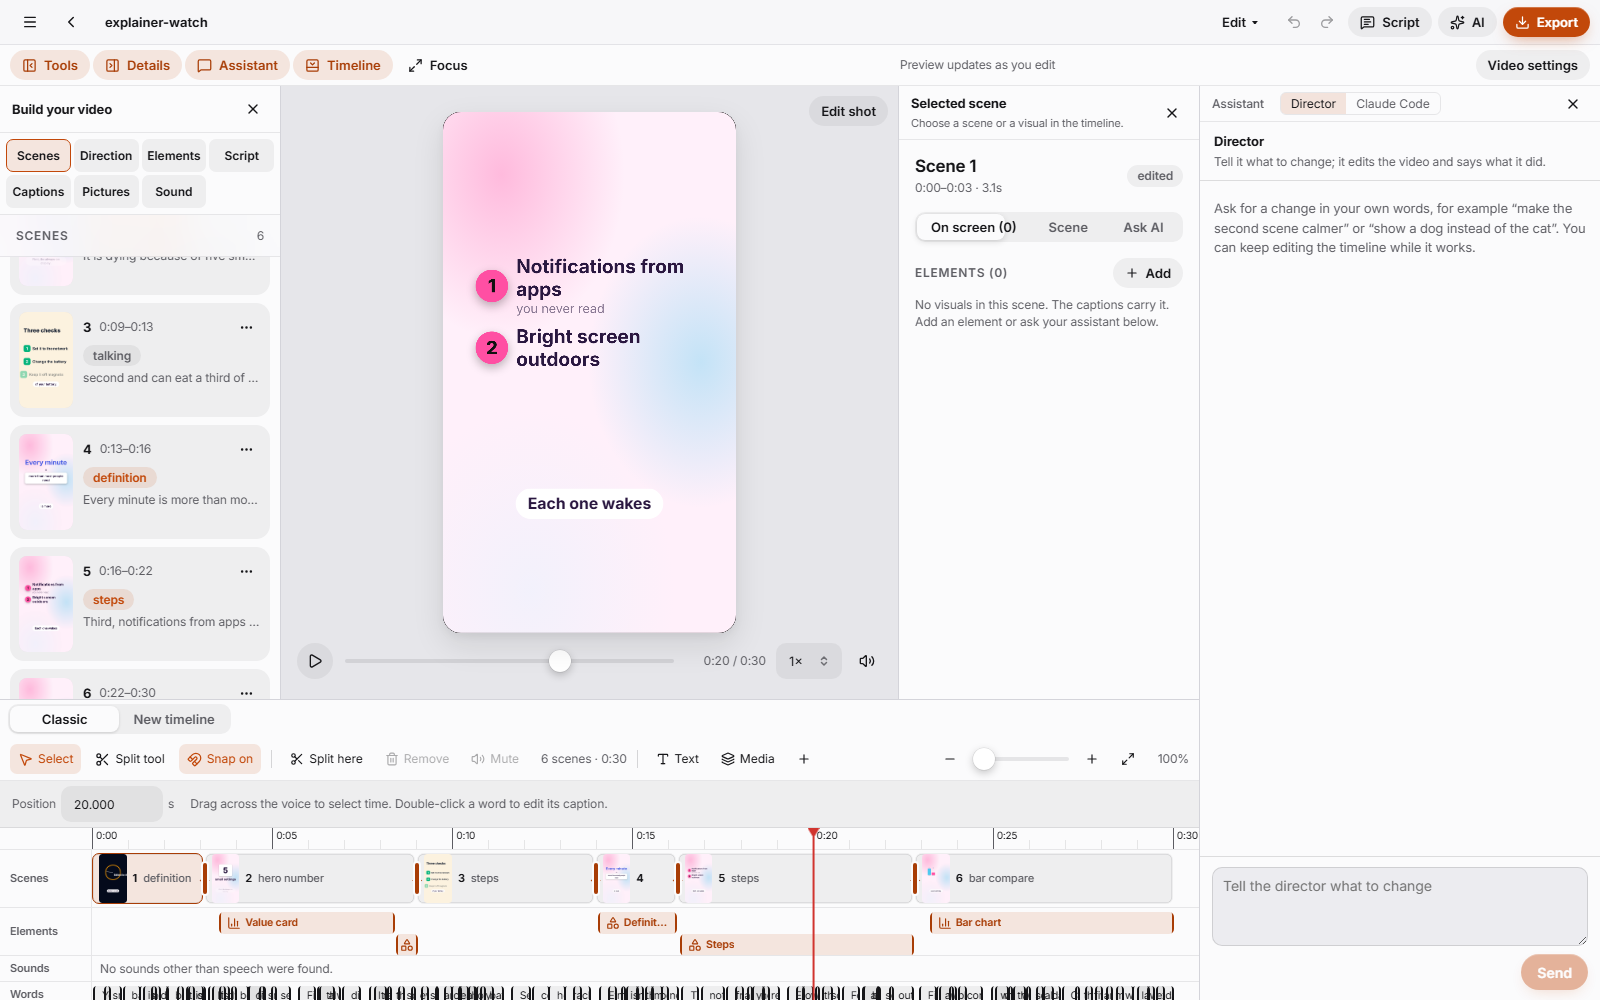
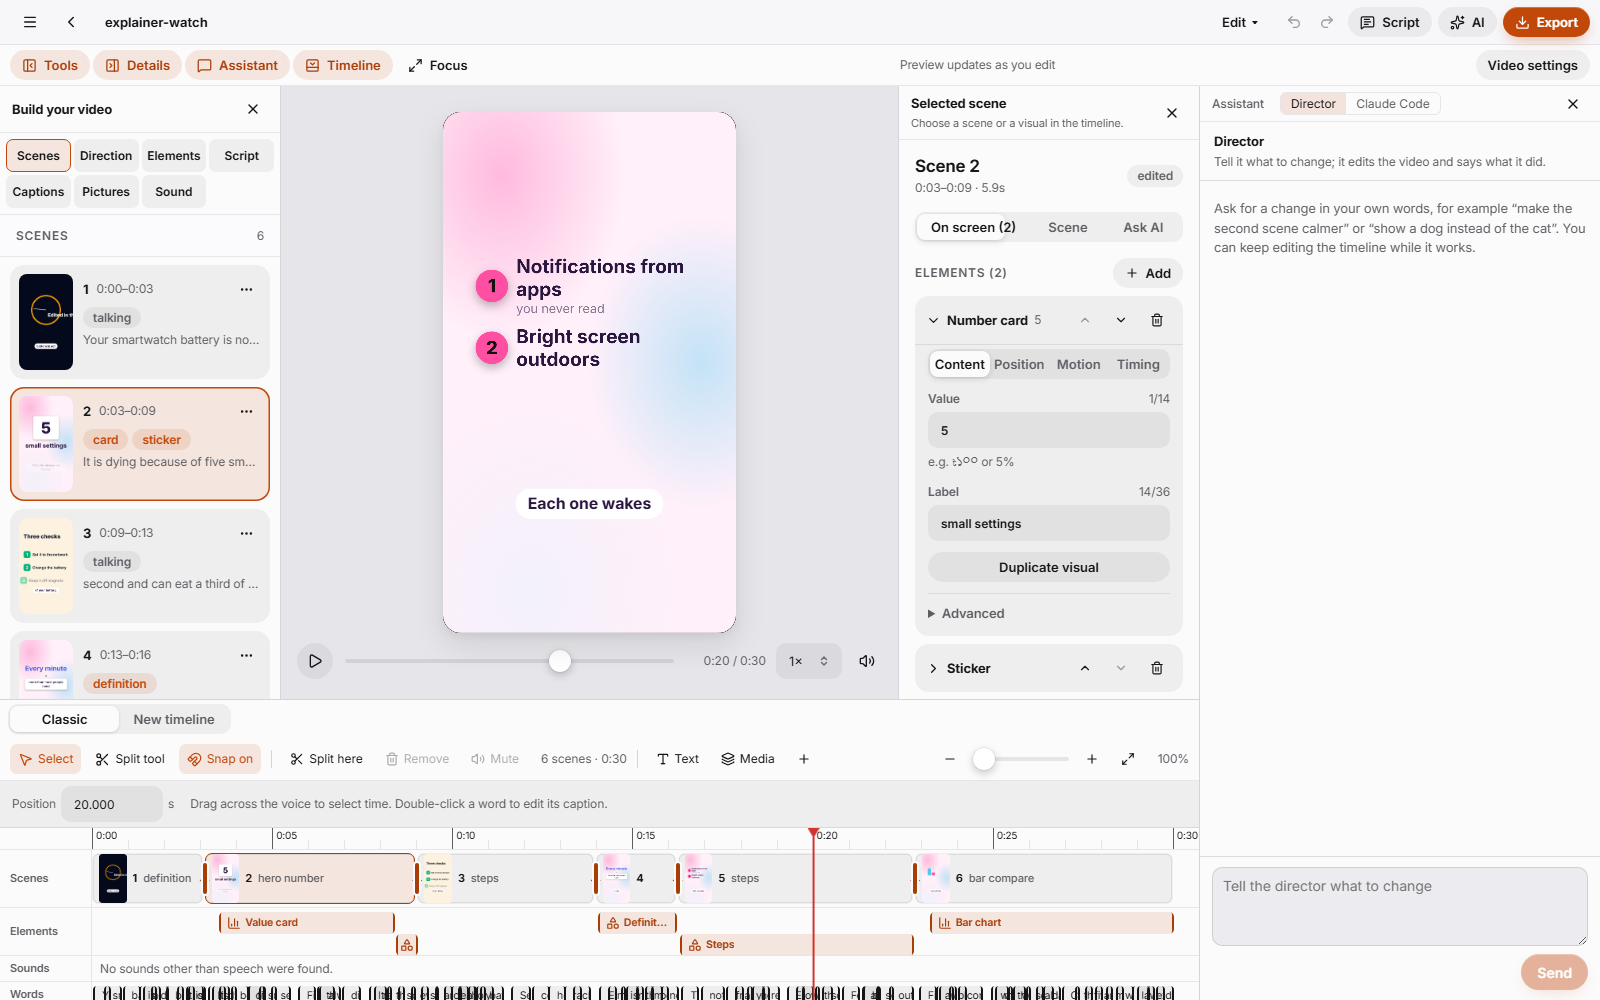
W13: Ctrl+L points Claude Code at the selected scene or element; references carry times and vt:// links

diff --git a/client/studio/src/assistant/AgentChat.tsx b/client/studio/src/assistant/AgentChat.tsx
@@ -24,7 +24,8 @@ export type AgentEvent =
   | { type: "error"; kind: "limit" | "login" | "other"; message: string };
 
 interface Step { id: string; title: string; status: string }
-interface Turn { role: "me" | "agent"; text: string; steps: Step[] }
+export interface AgentRef { kind: string; scene?: string; index?: number; t?: number; from?: number; to?: number; label?: string }
+interface Turn { role: "me" | "agent"; text: string; steps: Step[]; refs?: AgentRef[] }
 interface Card { requestId: string; what: string; title: string; detail: string }
 
 export const agentBridge = (): AgentBridge | undefined => (window as any).vtDesktop?.agents;
@@ -49,6 +50,18 @@ export default function AgentChat({ projectId, title, onChanged, onLink }: { pro
   const [earlier, setEarlier] = useState<{ sessionId: string; title: string } | null>(null);
   const [note, setNote] = useState("");
   const [model, setModel] = useState("");
+  const [refs, setRefs] = useState<AgentRef[]>([]);                  // what the person pointed at (Ctrl+L), sent as numbered references
+  const box = useRef<HTMLTextAreaElement>(null);
+  useEffect(() => {
+    const on = (e: Event) => {
+      const r = (e as CustomEvent).detail as AgentRef;
+      if (!r || !r.kind) return;
+      setRefs((all) => (all.some((x) => JSON.stringify(x) === JSON.stringify(r)) ? all : [...all, r].slice(-8)));
+      setTimeout(() => box.current?.focus(), 30);
+    };
+    window.addEventListener("vt-ask-about", on);
+    return () => window.removeEventListener("vt-ask-about", on);
+  }, []);
   const conv = useRef<string>("");
   const end = useRef<HTMLDivElement>(null);
   const denyRef = useRef<HTMLButtonElement>(null);
@@ -91,11 +104,12 @@ export default function AgentChat({ projectId, title, onChanged, onLink }: { pro
   const send = async () => {
     const text = draft.trim();
     if (!text || running) return;
-    setProblem(null); setDraft(""); setRunning(true);
-    setTurns((all) => [...all, { role: "me", text, steps: [] }]);
+    const sent = refs;
+    setProblem(null); setDraft(""); setRunning(true); setRefs([]);
+    setTurns((all) => [...all, { role: "me", text, steps: [], refs: sent }]);
     try {
       const id = conv.current || await begin();
-      await bridge.send(id, text, [], []);
+      await bridge.send(id, text, sent, []);
     } catch (e: any) {
       setRunning(false);
       setProblem({ kind: "other", message: String(e?.message || e).replace(/^Error invoking remote method '[^']+': (Error: )?/, "") });
@@ -119,6 +133,7 @@ export default function AgentChat({ projectId, title, onChanged, onLink }: { pro
         {turns.map((t, i) => (
           <div key={i} className={`agent-turn ${t.role}`}>
             {t.steps.length > 0 && <ul className="agent-steps">{t.steps.map((s) => <li key={s.id} className={s.status}><span className="dot" aria-hidden />{s.title}</li>)}</ul>}
+            {t.refs && t.refs.length > 0 && <div className="agent-pills">{t.refs.map((r, j) => <span key={j} className="agent-pill">[{j + 1}] {r.label || r.kind}</span>)}</div>}
             {t.text && (t.role === "agent" ? <Reply text={t.text} onLink={onLink} /> : <p>{t.text}</p>)}
           </div>
         ))}
@@ -139,8 +154,10 @@ export default function AgentChat({ projectId, title, onChanged, onLink }: { pro
         )}
         <div ref={end} />
       </div>
+      {refs.length > 0 && <div className="agent-pills agent-pills-draft" aria-label="What you are pointing at">{refs.map((r, j) => (
+        <span key={j} className="agent-pill">[{j + 1}] {r.label || r.kind}<button type="button" aria-label={`Remove ${r.label || r.kind}`} onClick={() => setRefs((all) => all.filter((_, k) => k !== j))}>×</button></span>))}</div>}
       <form className="agent-composer" onSubmit={(e) => { e.preventDefault(); send(); }}>
-        <textarea value={draft} rows={2} placeholder={`Tell ${WHO} what to change`} aria-label={`Message to ${WHO}`} disabled={running && !!card}
+        <textarea ref={box} value={draft} rows={2} placeholder={`Tell ${WHO} what to change`} aria-label={`Message to ${WHO}`} disabled={running && !!card}
           onChange={(e) => setDraft(e.target.value)} onKeyDown={(e) => { if (e.key === "Enter" && !e.shiftKey) { e.preventDefault(); send(); } }} />
         {running
           ? <button type="button" className="btn sm" onClick={() => bridge.stop(conv.current)} aria-label="Stop"><Square size={14} /> Stop</button>

diff --git a/client/studio/src/pages/Review.tsx b/client/studio/src/pages/Review.tsx
@@ -91,6 +91,7 @@ function ReviewEditor() {
   const [sel, setSel] = useState<Sel | null>(null);
   const [selected, setSelected] = useState<string | null>(null);
   const [selEl, setSelEl] = useState<{ scene: string; index: number } | null>(null);
+  const askRef = useRef<() => Record<string, unknown> | null>(() => null);
   const [selAction,setSelAction]=useState<{scene:string;index:number}|null>(null);
   const [selectedWord,setSelectedWord]=useState<string|null>(null);
   const captionWord=r.words.find(w=>w.id===selectedWord);
@@ -221,6 +222,18 @@ function ReviewEditor() {
     if (!selected || !scenes.some((s) => s.id === selected)) setSelected(scenes[0].id);
   }, [scenes, selected]);
   const timeOf = useMemo(() => new Map(r.timing.scenes.map((s) => [s.id, s])), [r.timing.scenes]);
+  askRef.current = () => {                                   // what Ctrl+L points at: the selected element, else the selected scene
+    const sid = selEl?.scene ?? selected;
+    if (!sid) return null;
+    const t = timeOf.get(sid) as { start?: number; end?: number } | undefined;
+    const span = t && t.start != null && t.end != null ? { from: +t.start.toFixed(2), to: +t.end.toFixed(2) } : {};
+    const n = (r.plan?.scenes ?? []).findIndex((s) => s.id === sid) + 1;
+    if (selEl) {
+      const el = (r.plan?.scenes ?? []).find((s) => s.id === sid)?.elements?.[selEl.index] as { type?: string; text?: string } | undefined;
+      return { kind: "element", scene: sid, index: selEl.index, ...span, label: `${el?.text || ELEMENT_NAME[el?.type ?? ""] || el?.type || "element"} in scene ${n}`.slice(0, 120) };
+    }
+    return { kind: "scene", scene: sid, ...span, label: `Scene ${n}` };
+  };
   useEffect(() => {
     const cur = r.timing.scenes.find((s) => time >= s.start && time < s.end);
     if (playing && !selEl && !selLayer && !selAction && !videoSel && cur && cur.id !== selected) {
@@ -309,6 +322,11 @@ function ReviewEditor() {
       else if (act === "palette") setPalette(true);
       else if (act === "focus-assistant") {
         setShowAssistant(true);
+        const ref = askRef.current();                                  // W13.3: Ctrl+L with something selected points Claude Code at it
+        if (ref && (window as any).vtDesktop?.agents) {
+          setAssistantTab("claude");
+          setTimeout(() => window.dispatchEvent(new CustomEvent("vt-ask-about", { detail: ref })), 250);
+        }
         setTimeout(() => document.querySelector<HTMLTextAreaElement>(".wb-assistant textarea")?.focus(), 60);
       }
     };

diff --git a/client/desktop/acp-instructions.js b/client/desktop/acp-instructions.js
@@ -15,10 +15,14 @@ function instructions({ title, projectId }) {
 /** The person's message followed by what they pointed at, one numbered line each, so "[2]" in the text means the second line. */
 function toPrompt(text, refs) {
   if (!refs || !refs.length) return text;
+  const clock = (t) => { const s = Math.max(0, Number(t) || 0); return `${Math.floor(s / 60)}:${(s % 60).toFixed(1).padStart(4, "0")}`; };
+  const span = (r) => (r.from != null && r.to != null ? ` · ${clock(r.from)}–${clock(r.to)}` : "");
   const line = (r, i) => {
-    const where = r.kind === "scene" ? `scene ${r.scene}` : r.kind === "time" ? `time ${r.t}s` : r.kind === "range" ? `time ${r.from}s to ${r.to}s`
-      : r.kind === "element" ? `element ${r.index ?? ""} of scene ${r.scene}` : r.kind === "word" ? `word ${r.word}` : r.kind === "layer" ? `layer ${r.layer}` : `a region of scene ${r.scene}`;
-    return `[${i + 1}] ${where}${r.label ? ` (${r.label})` : ""}`;
+    const where = r.kind === "scene" ? `scene ${r.scene}${span(r)} · vt://scene/${r.scene}` : r.kind === "time" ? `time ${clock(r.t)} · vt://t/${r.t}`
+      : r.kind === "range" ? `time ${clock(r.from)}–${clock(r.to)} · vt://range/${r.from}/${r.to}`
+      : r.kind === "element" ? `element ${r.scene}#${r.index ?? ""}${span(r)} · vt://element/${r.scene}/${r.index ?? 0}` : r.kind === "word" ? `word ${r.word}`
+      : r.kind === "layer" ? `layer ${r.layer}` : `a region of scene ${r.scene}`;
+    return `[${i + 1}] ${where}${r.label ? ` · "${r.label}"` : ""}`;
   };
   return `${text}\n\n<video_references>\n${refs.map(line).join("\n")}\n</video_references>`;
 }

diff --git a/client/desktop/test-acp-agents.js b/client/desktop/test-acp-agents.js
@@ -36,7 +36,8 @@ assert.throws(() => V.choice("always"), /Choose/);
 assert.match(instructions({ title: "My `video`\nline", projectId: "p1" }), /My video line/);
 assert.match(instructions({ title: "x", projectId: "p1" }), /vt:\/\/scene\/s3/);
 assert.equal(toPrompt("Make it bigger", []), "Make it bigger");
-assert.match(toPrompt("Fix [1]", [{ kind: "scene", scene: "s3", label: "the hook" }]), /<video_references>\n\[1\] scene s3 \(the hook\)\n<\/video_references>/);
+assert.equal(toPrompt("Fix [1]", [{ kind: "scene", scene: "s3", from: 4, to: 6.1, label: "the hook" }]), 'Fix [1]\n\n<video_references>\n[1] scene s3 · 0:04.0–0:06.1 · vt://scene/s3 · "the hook"\n</video_references>');
+assert.match(toPrompt("x", [{ kind: "element", scene: "s3", index: 2, label: "Small habits" }]), /\[1\] element s3#2 · vt:\/\/element\/s3\/2 · "Small habits"/);
 assert.equal(humanTitle("mcp__video-tool__set_caption_style"), "Set caption style");
 assert.equal(humanTitle(""), "Working");
 

diff --git a/client/studio/src/assistant/assistant.css b/client/studio/src/assistant/assistant.css
@@ -23,3 +23,7 @@
 .wb-assistant-tabs button.on { background: var(--bg-selected); color: var(--fg); }
 .agent-vscode { align-self: flex-start; }
 .agent-model { display: flex; align-items: center; gap: var(--sp-2); }
+.agent-pills { display: flex; flex-wrap: wrap; gap: 4px; margin-bottom: 4px; }
+.agent-pills-draft { padding: var(--sp-2) var(--sp-3) 0; border-top: 1px solid var(--border); }
+.agent-pill { display: inline-flex; align-items: center; gap: 4px; font-size: var(--fs-12); background: var(--bg-selected); color: var(--fg); border-radius: 999px; padding: 2px 8px; }
+.agent-pill button { border: 0; background: transparent; color: var(--text-muted); cursor: pointer; padding: 0 2px; font: inherit; }

diff --git a/docs/dev/ISSUES.md b/docs/dev/ISSUES.md
@@ -24,3 +24,4 @@ Newest first. Each line: what is wrong, where it was seen, how bad.
 - **W14 is half done:** the change event names scenes and who (only when the MCP server acted in the last 4 s), the Studio toasts it. Done since: glow, waiting while the person edits, selection kept (6/6). Still missing: the event from every save, `by` for person and director, refetching only the changed scenes. Ctrl+Z now undoes an agent change (7/7), but only changes made while the editor is open.
 - ~~Real Claude Code asking for a picture and speech~~ done 2026-11-22 (5/5) with a loopback test server (`VT_LOCAL_MCP=1`). Note: Claude reused a cached picture on the second run, by design (same prompt, same picture).
 - **VS Code extension (`client/vscode/`) is written but never run inside VS Code** (only its helper functions are tested, `node client/vscode/test.js`). It is not packaged or published; to try it: open VS Code with `--extensionDevelopmentPath=client/vscode`. It cannot write shots, only preview them; live "edits in VS Code show in the app" (C8 check) is not built.
+- **Pointing (W13) is Ctrl+L only:** no right-click "Ask the assistant about this", no Alt-drag region with a cropped picture, no Shift-drag time range, no drag-in; the Director tab does not take references. (W13.3, W13.2)

diff --git a/docs/dev/WORKLOG.md b/docs/dev/WORKLOG.md
@@ -599,3 +599,4 @@ VT_LOCAL_MCP=1 lets a test server on 127.0.0.1 offer /mcp (same checks; for test
 W14.2: agent changes glow on both timelines and the scene list, wait while the person types or drags, keep the selection (e2e/agent-toast.mjs 6/6).
 W14.3: Ctrl+Z undoes an agent change and says so (7/7).
 W14.4: "Claude just changed this." with Undo in the inspector (9/9).
+W13: Ctrl+L points Claude Code at the selected scene or element (a pill, sent as a numbered reference with times and a vt:// link); assistant-agent e2e 20/20.
